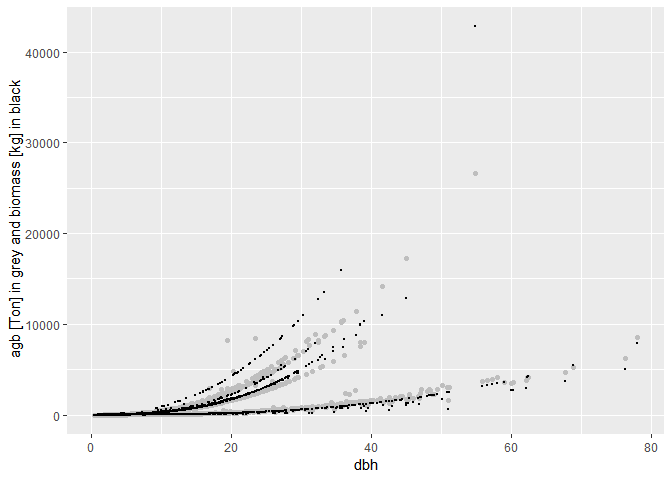
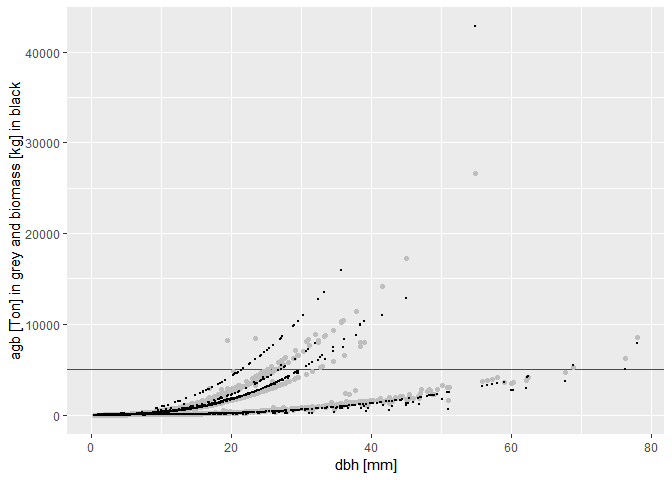
Add reference line.

Changed region(s): [[0.0, 0.1562, 0.0312, 0.75], [0.5, 0.9375, 0.5938, 1.0]]

diff --git a/.buildignore/dbh-vs-biomass.md b/.buildignore/dbh-vs-biomass.md
@@ -155,7 +155,9 @@ census_equations_biomass %>%
   filter(!sp %in% odd_species) %>% 
   ggplot(aes(dbh, biomass)) +
   geom_point() +
-  theme(legend.position = "bottom")
+  theme(legend.position = "bottom") +
+  ylab("biomass [kg]") +
+  xlab("dbh [mm]")
 #> Warning: Removed 303 rows containing missing values (geom_point).
 ```
 
@@ -165,15 +167,18 @@ This makes more sense.
 
 Let’s use the `agb` values that come with the data as a reference. `agb`
 appears to be not in \[kg\] but in \[Ton\], so we need to adjust
-accordingly.
+accordingly. Let’s also use a red line to differenciate species which
+biomass is almost always under 5000 \[kg\].
 
 ``` r
 census_equations_biomass %>% 
   filter(!sp %in% odd_species) %>% 
   ggplot(aes(x = dbh)) +
+  geom_hline(yintercept = 5000, color = "red") +
   geom_point(aes(y = agb * 1e3), color = "grey") +
   geom_point(aes(y = biomass), size = 0.3) +
-  ylab(" agb [Ton] in grey and biomass [kg] in black")
+  ylab("agb [Ton] in grey and biomass [kg] in black") +
+  xlab("dbh [mm]")
 #> Warning: Removed 303 rows containing missing values (geom_point).
 
 #> Warning: Removed 303 rows containing missing values (geom_point).
@@ -192,6 +197,7 @@ Here is a similar comparison, this time by species.
 census_equations_biomass %>% 
   filter(!sp %in% odd_species) %>% 
   ggplot(aes(x = dbh)) +
+  geom_hline(yintercept = 5000, color = "red") +
   geom_point(aes(y = agb * 1e3), color = "grey") +
   geom_point(aes(y = biomass), size = 0.3) +
   facet_wrap("sp", ncol = 4)
